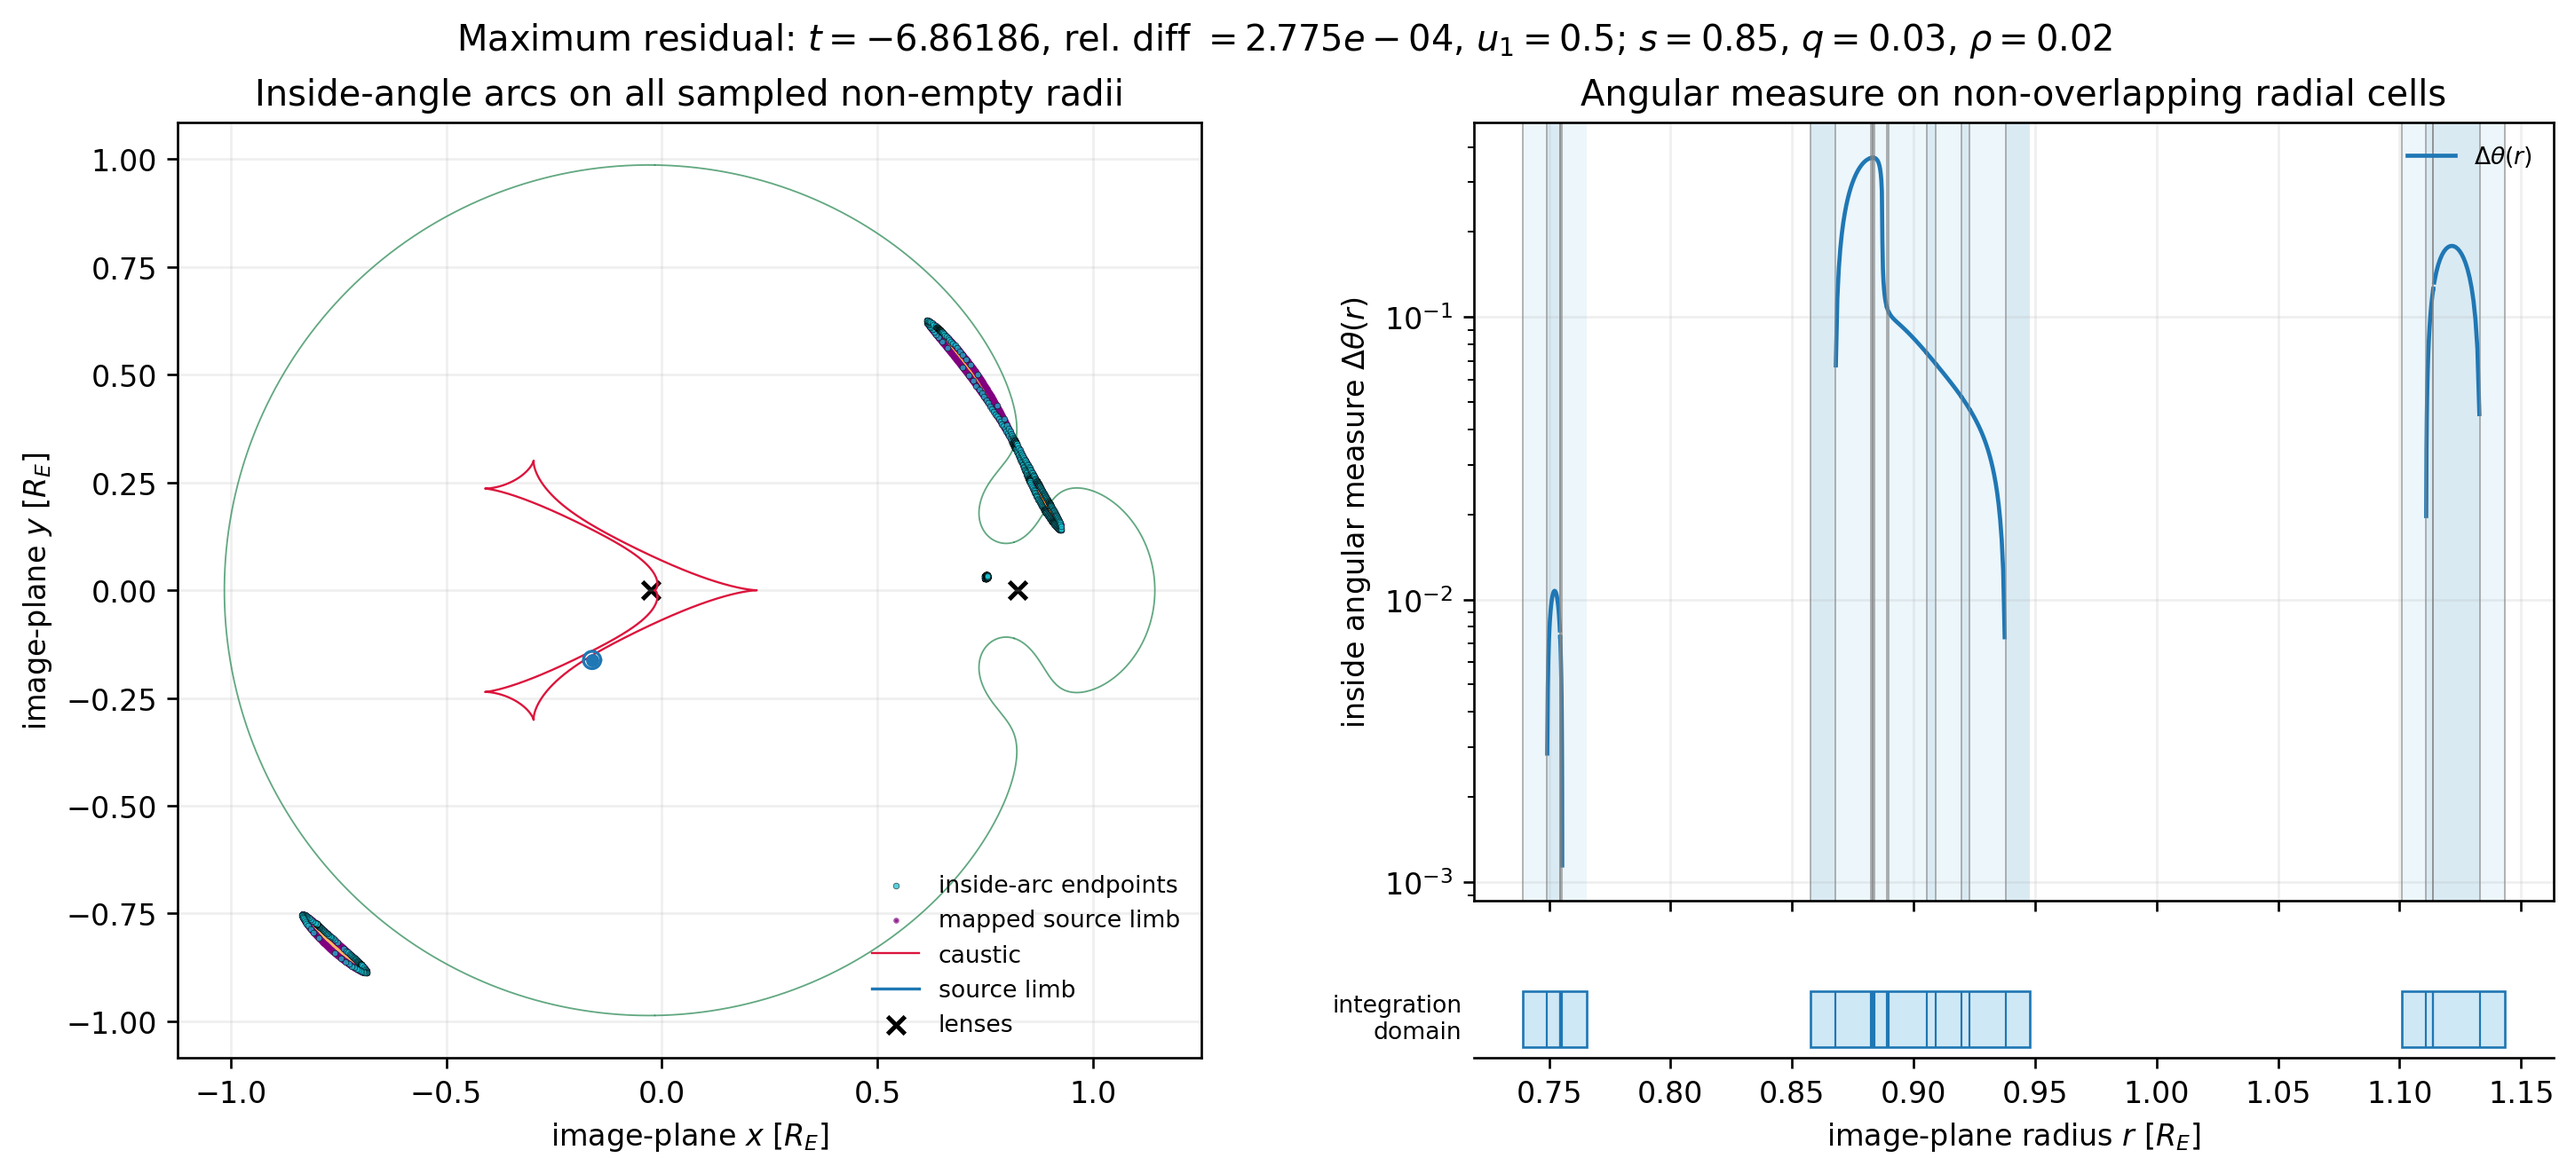
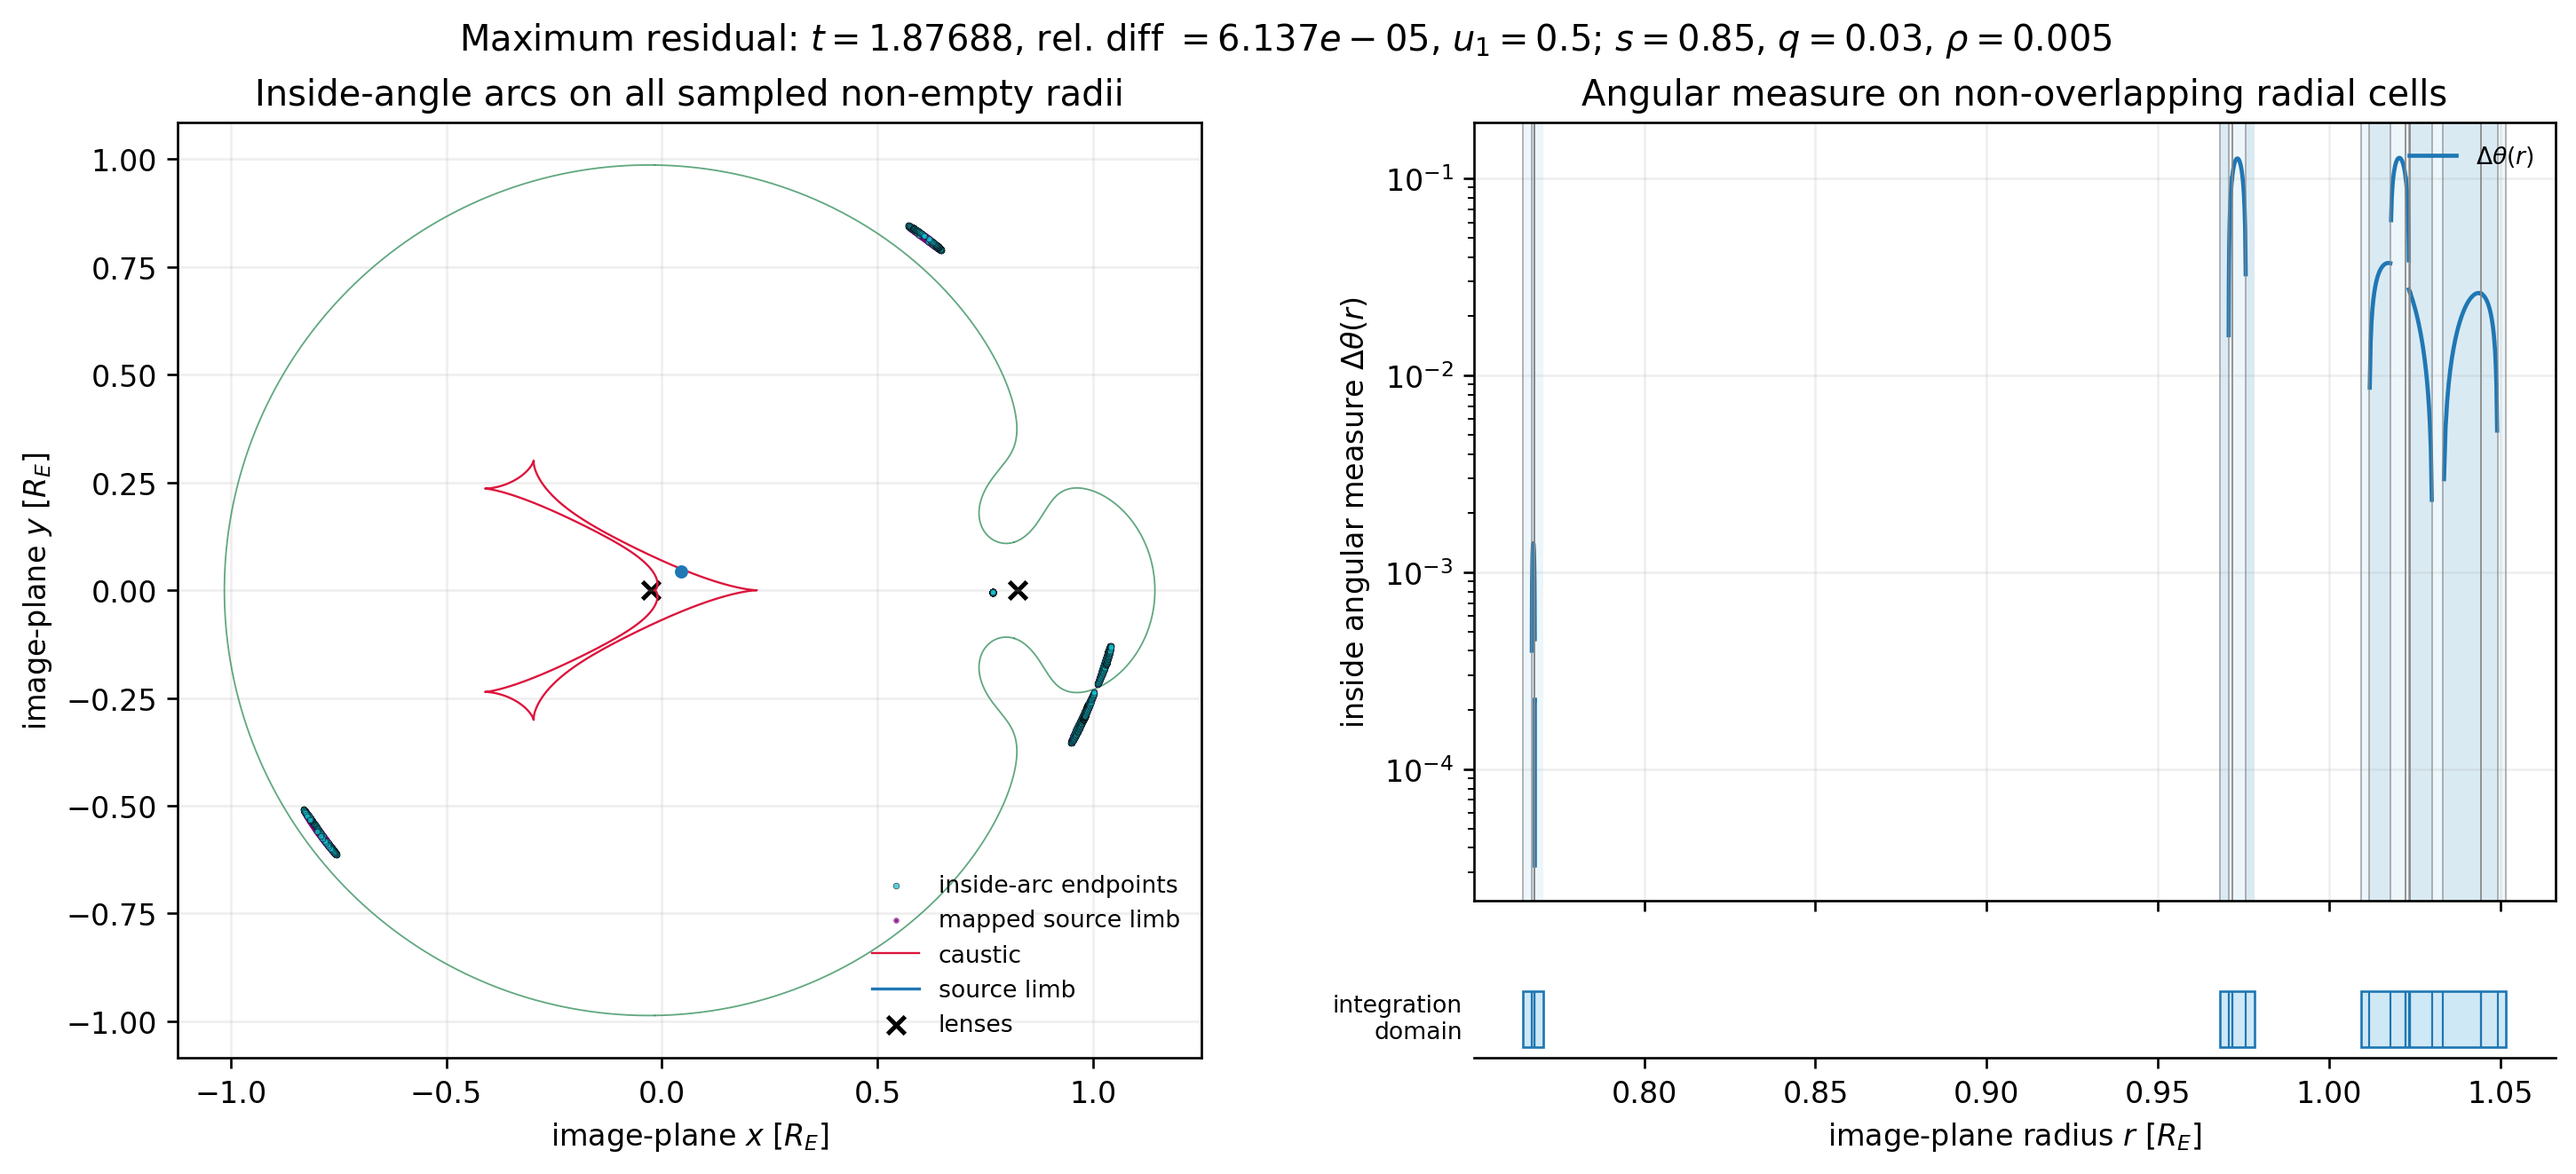
examples: refresh VBBL comparison outputs

diff --git a/example/compare-vbbl/compare_binary_uniform.py b/example/compare-vbbl/compare_binary_uniform.py
@@ -31,7 +31,7 @@ e1 = q / (1.0 + q)
 _params = {"a": a, "e1": e1}
 x_cm = a * (1.0 - q) / (1.0 + q)
 
-num_points = 2000
+num_points = 1000
 t = jnp.linspace(-0.5 * tE, 0.5 * tE, num_points)
 tau = (t - t0) / tE
 y1 = -u0 * jnp.sin(alpha) + tau * jnp.cos(alpha)

diff --git a/example/compare-vbbl/compare_binary_limb_dark.py b/example/compare-vbbl/compare_binary_limb_dark.py
@@ -23,7 +23,7 @@ alpha = jnp.deg2rad(45.0)
 tE = 30.0
 t0 = 0.0
 u0 = 0.0
-rho = 0.02
+rho = 5e-3
 nlenses = 2
 u1 = 0.5
 
